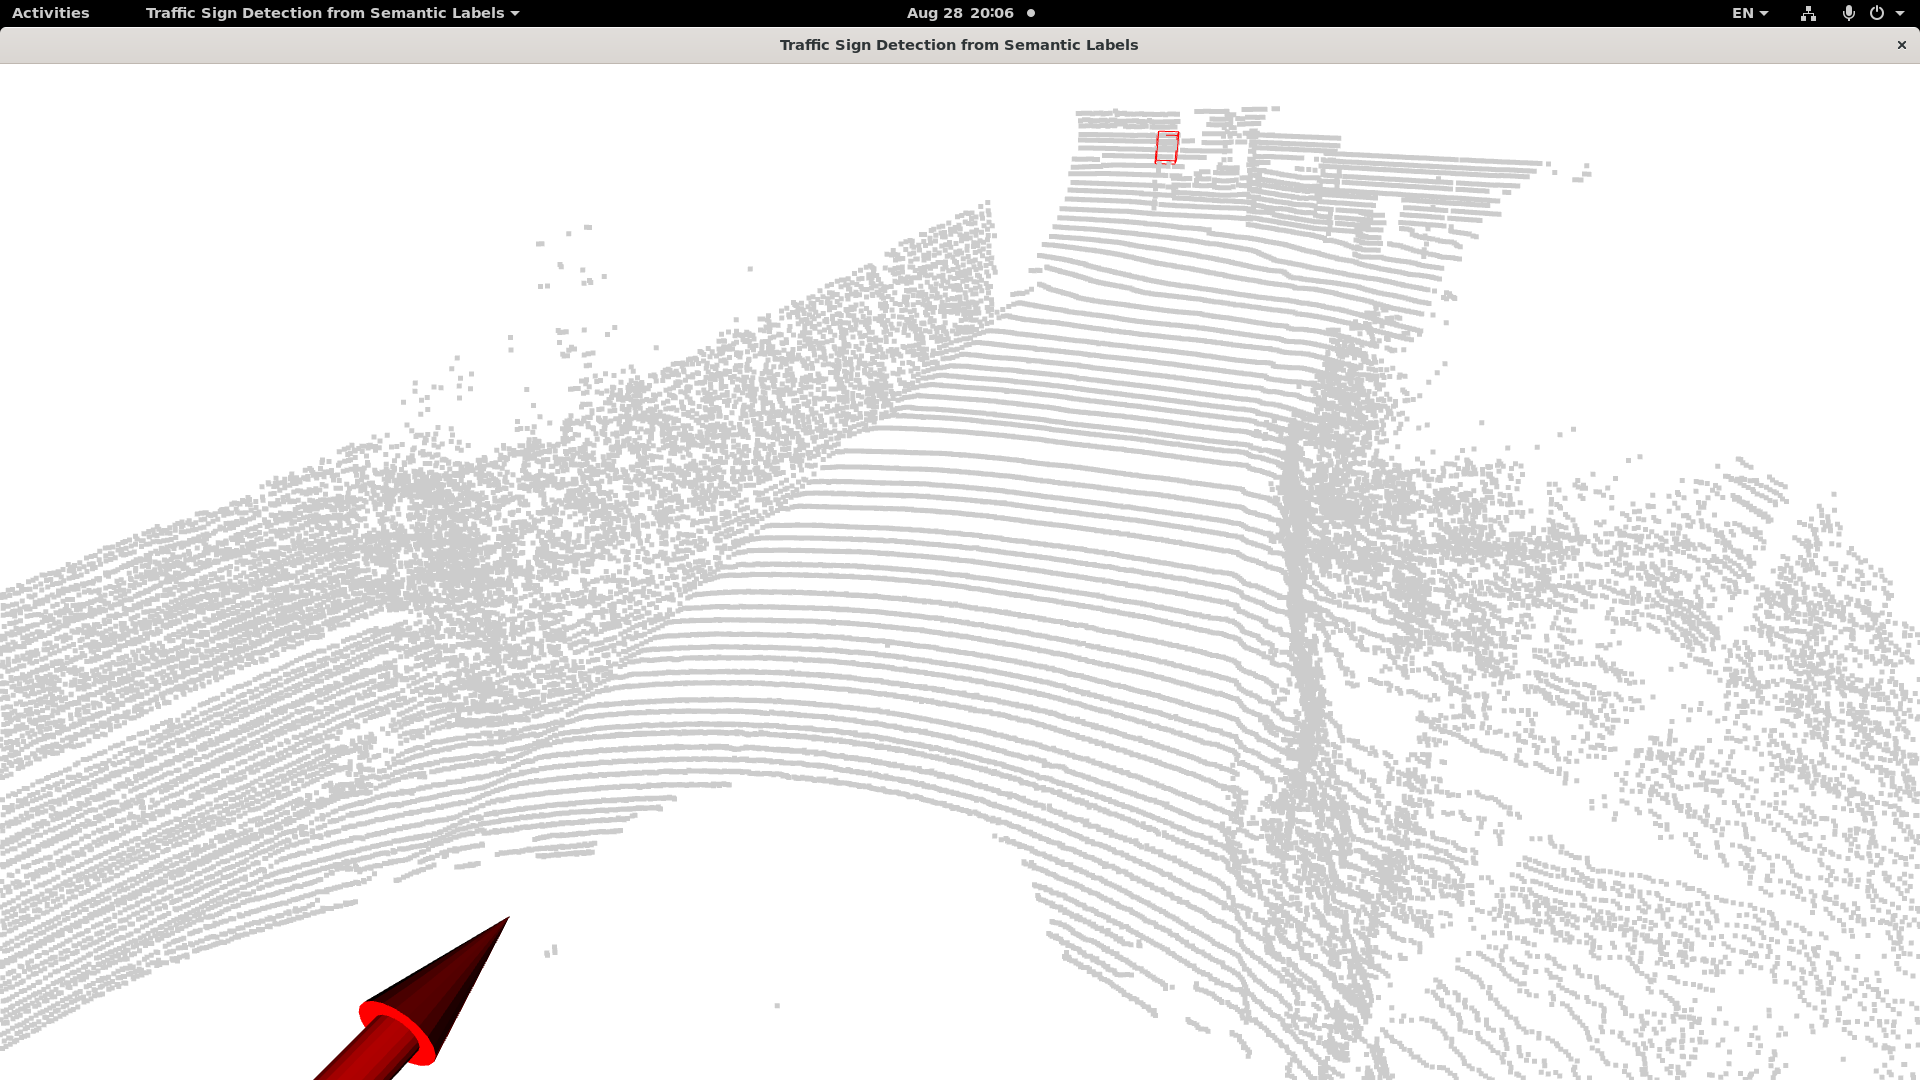
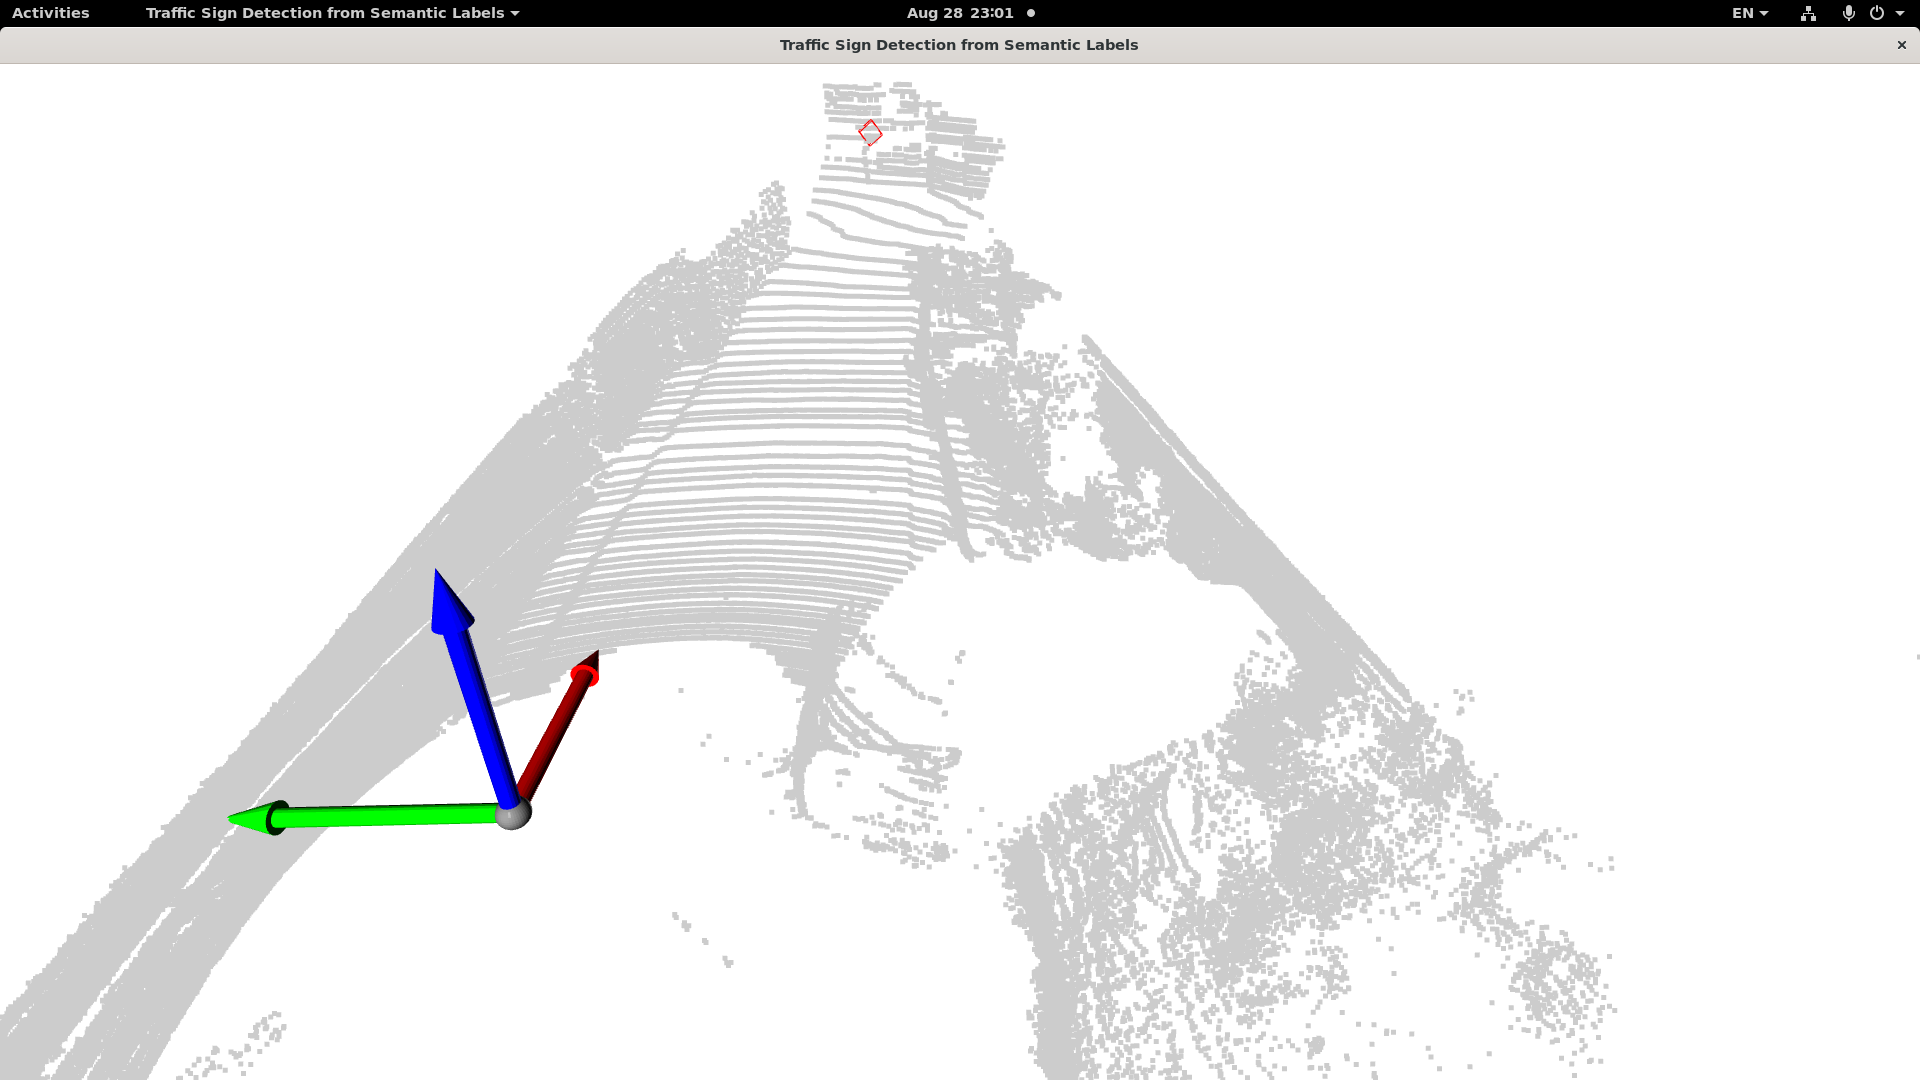
code update

diff --git a/draw_bbox.py b/draw_bbox.py
@@ -109,9 +109,9 @@ if __name__ == '__main__':
     # ArgumentParser를 사용하여 커맨드 라인에서 파일 경로를 쉽게 입력받음
     parser = argparse.ArgumentParser(description="Visualize 3D Bounding Boxes for Traffic Signs from 2DPASS predictions.")
     parser.add_argument('--pcd_file', type=str, help='Path to the .bin point cloud file.', 
-                        default=f'./semantickitti/dataset/sequences/11/velodyne/000340.bin')
+                        default=f'./semantickitti/dataset/sequences/11/velodyne/000327.bin')
     parser.add_argument('--label_file', type=str, help='Path to the .label prediction file.', 
-                        default=f'./subproblem2_lidar_camera/2DPASS/checkpoints/submit_2025_08_26/sequences/11/predictions/000340.label')
+                        default=f'./subproblem1_lidar_only/LSK3DNet/output_skitti/sequences/11/predictions/000327.label')
     '''
     subproblem1_lidar_only/LSK3DNet/output_skitti
     subproblem2_lidar_camera/2DPASS/checkpoints/submit_2025_08_26

diff --git a/README.md b/README.md
@@ -157,7 +157,7 @@ python draw_bbox.py --pcd_file <dir for the .bin point cloud file> --label_file 
 
 - 아래는 약 39m 거리의 교통 표지판에 대한 각 모델의 검출 결과 시각화
 <p align="center">
-    <img src="fig/000340.png" align="center" width="98%">
+    <img src="fig/000327.png" align="center" width="98%">
     <br>
     <img src="fig/LSK3DNet.png" align="center" width="49%">  
     <img src="fig/2DPASS.png" align="center" width="49%">
